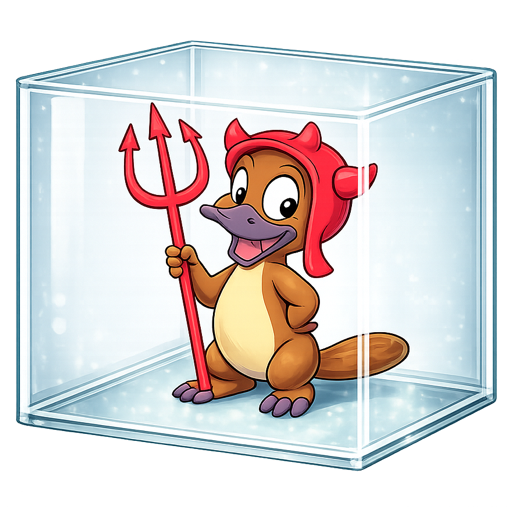
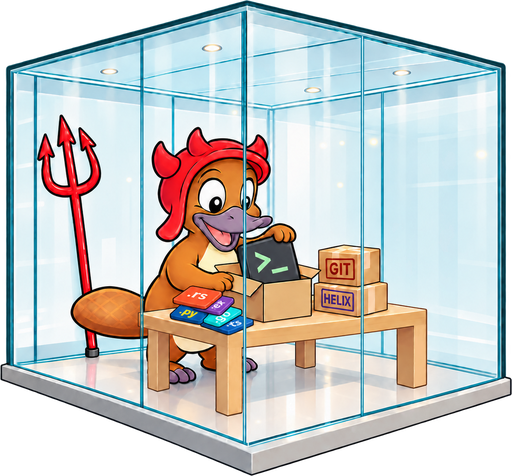
feat(docs): tint Safari's toolbar and polish link previews (#14)
Safari colours its toolbar from <meta name="theme-color">, and link previews
were thin or cropped the square mascot. This PR fixes both on the landing page
and the docs site, and swaps in new mascot art.

- Sync `theme-color` to the page background on theme change (`site.js`, new
  Docusaurus client module `site/client/theme-color.ts`)
- Docs: use the `summary` Twitter card and add `og:site_name` and `og:image:alt`
- Landing page: add `og:site_name`, plus `og:image` type and size (512x476)
- Add a `description` to the front matter of every docs page
- New mascot art (Hex packing builds in a glass display case) in the logo and
  icons, with updated alt text everywhere
- Reword the hero placard as a zoo sign (Habitat, Diet, Habits, Memory, Dislikes)

diff --git a/site/index.html b/site/index.html
@@ -7,12 +7,17 @@
 <meta name="description" content="A nix-darwin module that keeps an aarch64-linux Nix builder in an Apple container machine on your Mac. It wakes when a build needs it and sleeps when idle.">
 <link rel="canonical" href="https://robertderose.github.io/nix-hex-box/">
 <meta property="og:type" content="website">
+<meta property="og:site_name" content="HexBox">
 <meta property="og:url" content="https://robertderose.github.io/nix-hex-box/">
 <meta property="og:title" content="HexBox">
 <meta property="og:description" content="A Linux builder for Nix that lives in a box on your Mac.">
 <meta property="og:image" content="https://robertderose.github.io/nix-hex-box/assets/icon.png">
-<meta property="og:image:alt" content="The HexBox mascot: a platypus in devil horns holding a trident, inside a glass case.">
+<meta property="og:image:type" content="image/png">
+<meta property="og:image:width" content="512">
+<meta property="og:image:height" content="476">
+<meta property="og:image:alt" content="Hex the platypus, in devil horns, packing source files into Git and Helix packages inside a glass display case.">
 <meta name="twitter:card" content="summary">
+<meta name="theme-color" content="#e6eff2">
 <link rel="icon" type="image/png" href="assets/favicon.png">
 <link rel="apple-touch-icon" href="assets/apple-touch-icon.png">
 <link rel="preconnect" href="https://fonts.googleapis.com">
@@ -55,7 +60,7 @@
 <section class="exhibit">
   <div class="wrap exhibit-grid">
     <figure class="case">
-      <img src="assets/icon.png" alt="The HexBox mascot, a platypus in devil horns holding a trident, standing inside a glass case." width="512" height="512">
+      <img src="assets/icon.png" alt="Hex the platypus, in devil horns, packing source files into Git and Helix packages inside a glass display case." width="512" height="476">
     </figure>
 
     <div class="exhibit-copy">
@@ -63,11 +68,11 @@
       <p class="lede">HexBox is a <code>nix-darwin</code> module. Turn it on, and Nix on your Mac can build Linux packages, without a server or a VM to babysit.</p>
 
       <dl class="placard">
-        <div><dt>Lives in</dt><dd>An Apple <code>container</code> machine on your Mac</dd></div>
-        <div><dt>Builds</dt><dd><code>aarch64-linux</code> derivations, sent by Nix</dd></div>
-        <div><dt>Wakes</dt><dd>When a build needs it, in seconds</dd></div>
-        <div><dt>Sleeps</dt><dd>After five quiet minutes</dd></div>
-        <div><dt>Keeps</dt><dd>Its <code>/nix</code> store, from one nap to the next</dd></div>
+        <div><dt>Habitat</dt><dd>An Apple <code>container</code> machine on your Mac</dd></div>
+        <div><dt>Diet</dt><dd><code>aarch64-linux</code> derivations, fed by Nix</dd></div>
+        <div><dt>Habits</dt><dd>Up in seconds when a build arrives. Naps when the work dries up.</dd></div>
+        <div><dt>Memory</dt><dd>Long. His <code>/nix</code> store survives every nap.</dd></div>
+        <div><dt>Dislikes</dt><dd><code>x86_64</code>, Intel Macs</dd></div>
       </dl>
 
       <div class="get">

diff --git a/site/site.js b/site/site.js
@@ -7,10 +7,14 @@ document.documentElement.classList.add('js');
   const button = document.querySelector('.theme-toggle');
   const system = matchMedia('(prefers-color-scheme: dark)');
   const current = () => root.dataset.theme || (system.matches ? 'dark' : 'light');
+  const tint = document.querySelector('meta[name="theme-color"]');
   const show = () => {
     const theme = current();
     button.dataset.current = theme;
     button.setAttribute('aria-label', `Switch to ${theme === 'dark' ? 'light' : 'dark'} theme`);
+    // Safari tints its toolbar from theme-color and doesn't follow the page's
+    // own color changes, so keep the tag on the current page background.
+    tint.content = getComputedStyle(root).getPropertyValue('--glass').trim();
   };
   button.addEventListener('click', () => {
     const next = current() === 'dark' ? 'light' : 'dark';

diff --git a/docs/site/client/theme-color.ts b/docs/site/client/theme-color.ts
@@ -1,0 +1,23 @@
+import ExecutionEnvironment from '@docusaurus/ExecutionEnvironment';
+
+// Safari tints its toolbar from <meta name="theme-color"> and doesn't follow
+// the page's own color changes, so keep one tag on the current page background.
+function syncThemeColor(): void {
+  const color = getComputedStyle(document.documentElement).getPropertyValue('--hb-glass').trim();
+  if (!color) return;
+  let meta = document.querySelector<HTMLMetaElement>('meta[name="theme-color"]');
+  if (!meta) {
+    meta = document.createElement('meta');
+    meta.name = 'theme-color';
+    document.head.append(meta);
+  }
+  meta.content = color;
+}
+
+if (ExecutionEnvironment.canUseDOM) {
+  syncThemeColor();
+  new MutationObserver(syncThemeColor).observe(document.documentElement, {
+    attributes: true,
+    attributeFilter: ['data-theme'],
+  });
+}

diff --git a/docs/docusaurus.config.ts b/docs/docusaurus.config.ts
@@ -34,6 +34,7 @@ const config: Config = {
 
   // Site code lives in site/ because src/ is the documentation content.
   staticDirectories: ['site/static'],
+  clientModules: ['./site/client/theme-color.ts'],
 
   presets: [
     [
@@ -54,6 +55,13 @@ const config: Config = {
 
   themeConfig: {
     image: 'img/icon.png',
+    metadata: [
+      // The share image is the square mascot, so ask for the small card;
+      // Docusaurus defaults to a wide one that crops it.
+      {name: 'twitter:card', content: 'summary'},
+      {property: 'og:site_name', content: 'HexBox'},
+      {property: 'og:image:alt', content: 'Hex the platypus, in devil horns, packing source files into Git and Helix packages inside a glass display case.'},
+    ],
     colorMode: {respectPrefersColorScheme: true},
     navbar: {
       title: 'HexBox',

diff --git a/docs/src/introduction.md b/docs/src/introduction.md
@@ -1,10 +1,11 @@
 ---
 slug: /
+description: HexBox is a nix-darwin module that keeps an aarch64-linux Nix builder in an Apple container machine on your Mac.
 ---
 
 # Introduction
 
-![The HexBox mascot, a platypus in devil horns, inside a glass box](/img/icon.png)
+![Hex the platypus, in devil horns, packing source files into Git and Helix packages inside a glass display case.](/img/icon.png)
 
 HexBox gives Nix on your Mac a way to build Linux packages. It's a
 `nix-darwin` module that runs a small `aarch64-linux` machine using Apple's

diff --git a/README.md b/README.md
@@ -1,7 +1,7 @@
 # HexBox
 
 <p align="center">
-  <img src="assets/logo.png" alt="The HexBox mascot, a platypus in devil horns, inside a glass box" width="240" />
+  <img src="assets/logo.png" alt="Hex the platypus, in devil horns, packing source files into Git and Helix packages inside a glass display case." width="240" />
 </p>
 
 HexBox gives Nix on your Mac a way to build Linux packages. It's a

diff --git a/docs/src/architecture/networking.md b/docs/src/architecture/networking.md
@@ -1,3 +1,7 @@
+---
+description: How Nix reaches the builder over SSH, when container-builder is a script that wakes the machine rather than a network address.
+---
+
 # How Nix reaches the builder
 
 Nix talks to the builder the way it talks to any remote builder: over SSH,

diff --git a/docs/src/architecture/runtime-model.md b/docs/src/architecture/runtime-model.md
@@ -1,3 +1,7 @@
+---
+description: "The builder is a persistent Apple container machine: it keeps its disk when it stops, so it can sleep when idle without losing work."
+---
+
 # The builder machine
 
 The builder is an Apple `container` machine named `nix-builder`. Unlike an

diff --git a/docs/src/getting-started/installation.md b/docs/src/getting-started/installation.md
@@ -1,3 +1,7 @@
+---
+description: Go from nothing to a working Linux build with HexBox in about ten minutes, most of it waiting for the first image download.
+---
+
 # Installation
 
 This page takes you from nothing to a working Linux build. Plan on about ten

diff --git a/docs/src/architecture/generated-files.md b/docs/src/architecture/generated-files.md
@@ -1,3 +1,7 @@
+---
+description: The scripts, SSH configuration, and keys HexBox keeps in ~/.local/state/hb, and which ones each switch rewrites.
+---
+
 # Files HexBox manages
 
 HexBox keeps its files in `~/.local/state/hb`. Every switch rewrites the

diff --git a/docs/src/operations/verification.md b/docs/src/operations/verification.md
@@ -1,3 +1,7 @@
+---
+description: Use the hb command to check the builder, repair it, and run a real build through it.
+---
+
 # Checking and repairing the builder
 
 The `hb` command is how you look after the builder. Most days you won't need

diff --git a/docs/src/getting-started/configuration.md b/docs/src/getting-started/configuration.md
@@ -1,3 +1,7 @@
+---
+description: The HexBox settings most people change, from memory and CPUs to the idle timeout and a custom builder image.
+---
+
 # Configuration
 
 Every setting lives under `services.container-builder`. Only `enable` is
